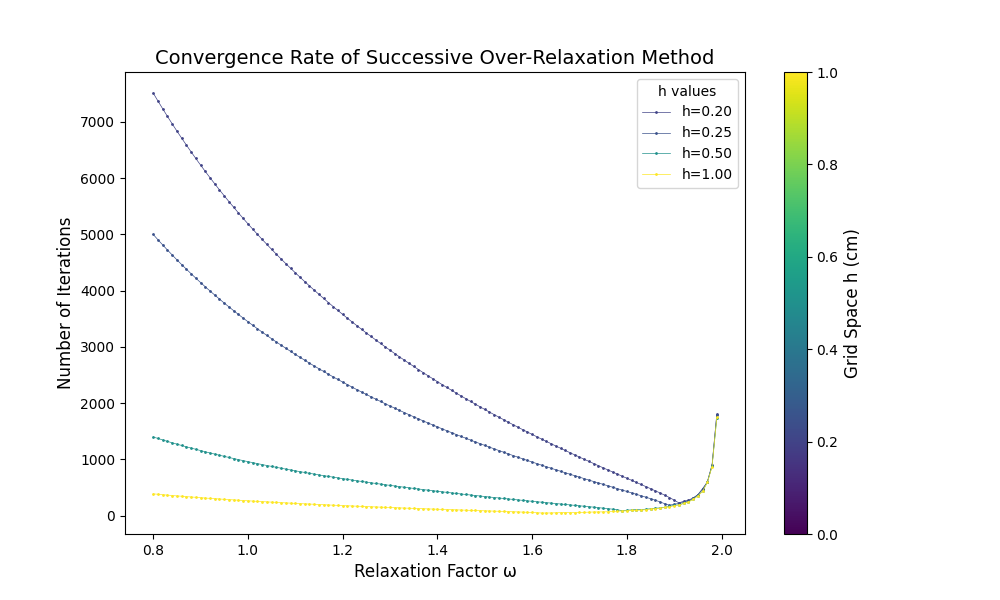
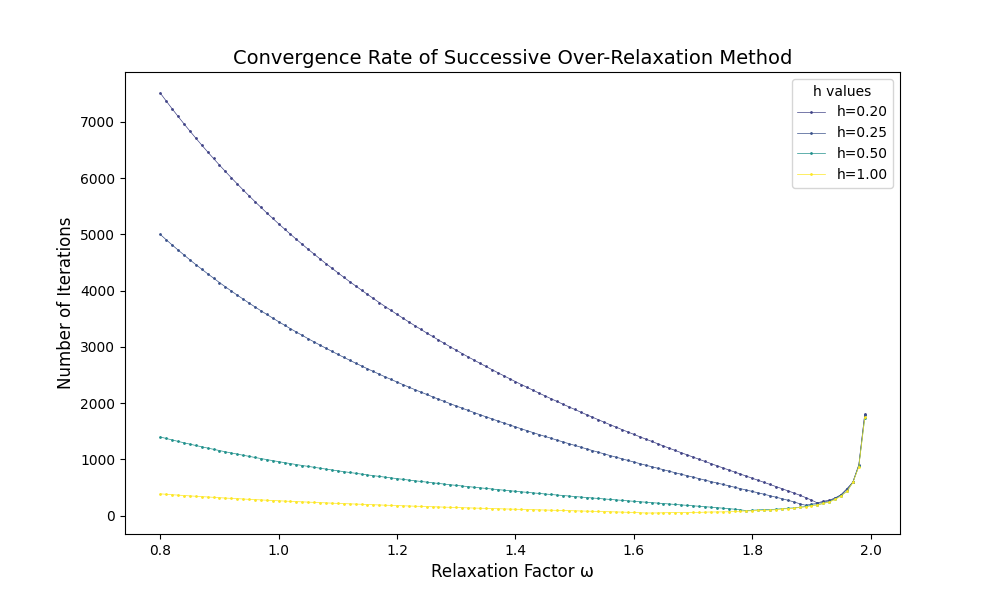
HW4 final version

diff --git a/src/HW4/VisualizeConvergence.py b/src/HW4/VisualizeConvergence.py
@@ -29,8 +29,6 @@ def plot_convergence_rate(filename):
     
     sm = plt.cm.ScalarMappable(cmap=cmap, norm=norm)
     sm.set_array([])
-    cbar = plt.colorbar(sm, ax=plt.gca())
-    cbar.set_label('Grid Space h (cm)', fontsize=12)
     plt.xlabel('Relaxation Factor ω', fontsize=12)
     plt.ylabel('Number of Iterations', fontsize=12)
     plt.title('Convergence Rate of Successive Over-Relaxation Method', fontsize=14)

diff --git a/src/HW4/TemperatureDistribution.cpp b/src/HW4/TemperatureDistribution.cpp
@@ -126,7 +126,7 @@ int main()
             return 1;
         }
         double min_omega = 0.8, max_omega = 2, step = 0.01;
-        double h_arr[4] = { 0.2, 0.25, 0.5, 1.0 };
+        double h_arr[4] = { 0.2, 0.25, 0.5, 1.0};
         for (int i = 0; i < 4; ++i)
         {
             h = h_arr[i];

diff --git a/docs/HW4.md b/docs/HW4.md
@@ -22,3 +22,23 @@ $$\Delta T=T^{k+1}(i,j)-T^k(i,j)=\frac{T^k(i+1,j)+T^{k+1}(i-1,j)+T^k(i,j+1)+T^{k
 带入原方程并整理得到：
 $$T^{k+1}(i,j)=(1-\omega)T^k(i,j)+\frac{\omega}{4}[T^{k+1}(i-1,j)+T^{k+1}(i,j-1)+T^k(i+1,j)+T^k(i,j+1)]$$
 这就是松弛法的迭代公式，终止条件为$max|T^{k+1}-T^k|<\epsilon$，下面取$\epsilon=10^{-5}$求解本问题。
+
+# 2.代码生成与调试
+用./src/HW4/TemperatureDistribution.cpp进行问题求解，可以自定义松弛因子和步长。同时为了观察收敛速率和松弛因子、步长的关系，可以在输入时开启测试循环，程序将相关数据自动写入相关文件，随后用同一文件夹下的Python程序可以进行画图。
+
+# 3.结果讨论和物理解释
+取松弛因子1.5，步长0.5，求解并画图得到稳态时的温度分布图象如下：
+![温度分布](../photo/HW4/TemperatureDistribution.png)
+与物理常识相吻合，说明数值模拟成功。
+下面为了比较收敛速率，对不同的松弛因子和步长分别求解，并画出总共迭代次数：
+![收敛速率](../photo/HW4/ConvergenceRate.png)
+这里松弛因子从亚松驰的0.8一直取到超松弛法的2.0，可以从图中很明显看到收敛速率随着松弛因子的增大而先降后升，存在最佳松弛因子。并且最佳松弛因子会随着步长的增大而变小。
+
+## 附录1：AI工具使用声明表
+|AI工具名称|生成代码|功能|
+|:---------:|:------------:|:----:|
+|Deepseek R1|两个Python文件|将结果可视化|
+
+核心代码生成行数占比：0%
+
+## 附录2：本次commit截图
